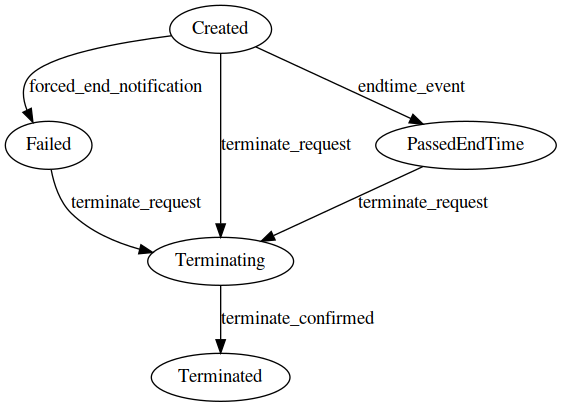
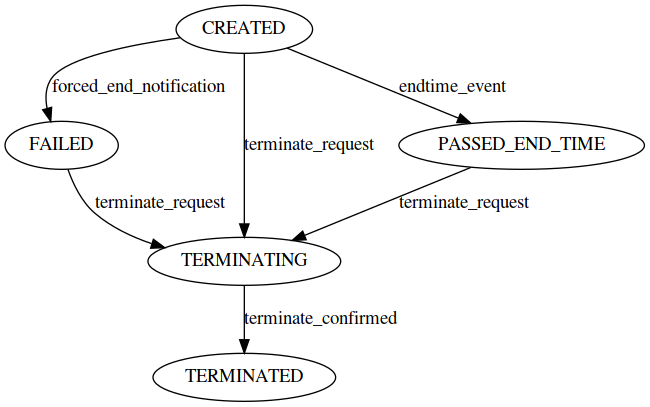
Rename state names (including case) to those of Protobuf version.
The Protobuf messages, representing the three state machines, copied the
names of the different states verbatim from the SOAP ones. In our Python
code we had simplified some of these. After all why prefix the
reservation state machine ones with `RESERVE_` and provisioning and
lifecycle statem machine ones **not** with respectively `PROVISIONING_`
and `LIFECYCLE_`. That's inconsistent. Instead we choose to leave out the
`RESERVE_` prefix and picked CamelCase for the names instead of all
uppercase.

However, now that we need to map our 'Python' states to those of
Protobuf, we are hampered by not having a 1-to-1 mapping of the states.
So we made them identical to the Protobuf version.

diff --git a/src/supa/connection/fsm.py b/src/supa/connection/fsm.py
@@ -44,23 +44,23 @@ class ReservationStateMachine(StateMachine):
     .. image:: /images/ReservationStateMachine.png
     """
 
-    Start = State("Start", initial=True)
-    Checking = State("Checking")
-    Held = State("Held")
-    Committing = State("Committing")
-    Failed = State("Failed")
-    Timeout = State("Timeout")
-    Aborting = State("Aborting")
+    ReserveStart = State("RESERVE_START", initial=True)
+    ReserveChecking = State("RESERVE_CHECKING")
+    ReserveHeld = State("RESERVE_HELD")
+    ReserveCommitting = State("RESERVE_COMMITTING")
+    ReserveFailed = State("RESERVE_FAILED")
+    ReserveTimeout = State("RESERVE_TIMEOUT")
+    ReserveAborting = State("RESERVE_ABORTING")
 
-    reserve_request = Start.to(Checking)
-    reserve_confirmed = Checking.to(Held)
-    reserve_failed = Checking.to(Failed)
-    reserve_abort_request = Failed.to(Aborting) | Held.to(Aborting)
-    reserve_abort_confirmed = Aborting.to(Start)
-    reserve_timeout_notification = Held.to(Timeout)
-    reserve_commit_request = Held.to(Committing) | Timeout.to(Committing)
-    reserve_commit_confirmed = Committing.to(Start)
-    reserve_commit_failed = Committing.to(Start)
+    reserve_request = ReserveStart.to(ReserveChecking)
+    reserve_confirmed = ReserveChecking.to(ReserveHeld)
+    reserve_failed = ReserveChecking.to(ReserveFailed)
+    reserve_abort_request = ReserveFailed.to(ReserveAborting) | ReserveHeld.to(ReserveAborting)
+    reserve_abort_confirmed = ReserveAborting.to(ReserveStart)
+    reserve_timeout_notification = ReserveHeld.to(ReserveTimeout)
+    reserve_commit_request = ReserveHeld.to(ReserveCommitting) | ReserveTimeout.to(ReserveCommitting)
+    reserve_commit_confirmed = ReserveCommitting.to(ReserveStart)
+    reserve_commit_failed = ReserveCommitting.to(ReserveStart)
 
 
 class ProvisioningStateMachine(StateMachine):
@@ -69,10 +69,10 @@ class ProvisioningStateMachine(StateMachine):
     .. image:: /images/ProvisioningStateMachine.png
     """
 
-    Released = State("Released", initial=True)
-    Provisioning = State("Provisioning")
-    Provisioned = State("Provisioned")
-    Releasing = State("Releasing")
+    Released = State("RELEASED", initial=True)
+    Provisioning = State("PROVISIONING")
+    Provisioned = State("PROVISIONED")
+    Releasing = State("RELEASING")
 
     provision_request = Released.to(Provisioning)
     provision_confirmed = Provisioning.to(Provisioned)
@@ -86,11 +86,11 @@ class LifecycleStateMachine(StateMachine):
     .. image:: /images/LifecycleStateMachine.png
     """
 
-    Created = State("Created", initial=True)
-    Failed = State("Failed")
-    Terminating = State("Terminating")
-    PassedEndTime = State("PassedEndTime")
-    Terminated = State("Terminated")
+    Created = State("CREATED", initial=True)
+    Failed = State("FAILED")
+    Terminating = State("TERMINATING")
+    PassedEndTime = State("PASSED_END_TIME")
+    Terminated = State("TERMINATED")
 
     forced_end_notification = Created.to(Failed)
     terminate_request = Created.to(Terminating) | PassedEndTime.to(Terminating) | Failed.to(Terminating)

diff --git a/src/supa/db.py b/src/supa/db.py
@@ -292,15 +292,15 @@ class Reservation(Base):
 
     # internal state keeping
     reservation_state = Column(
-        Enum(*[s.identifier for s in ReservationStateMachine.states]),
+        Enum(*[s.name for s in ReservationStateMachine.states]),
         nullable=False,
-        default=ReservationStateMachine.Start.identifier,
+        default=ReservationStateMachine.ReserveStart.name,
     )
-    provisioning_state = Column(Enum(*[s.identifier for s in ProvisioningStateMachine.states]))
+    provisioning_state = Column(Enum(*[s.name for s in ProvisioningStateMachine.states]))
     lifecycle_state = Column(
-        Enum(*[s.identifier for s in LifecycleStateMachine.states]),
+        Enum(*[s.name for s in LifecycleStateMachine.states]),
         nullable=False,
-        default=LifecycleStateMachine.Created.identifier,
+        default=LifecycleStateMachine.Created.name,
     )
 
     # another header part
